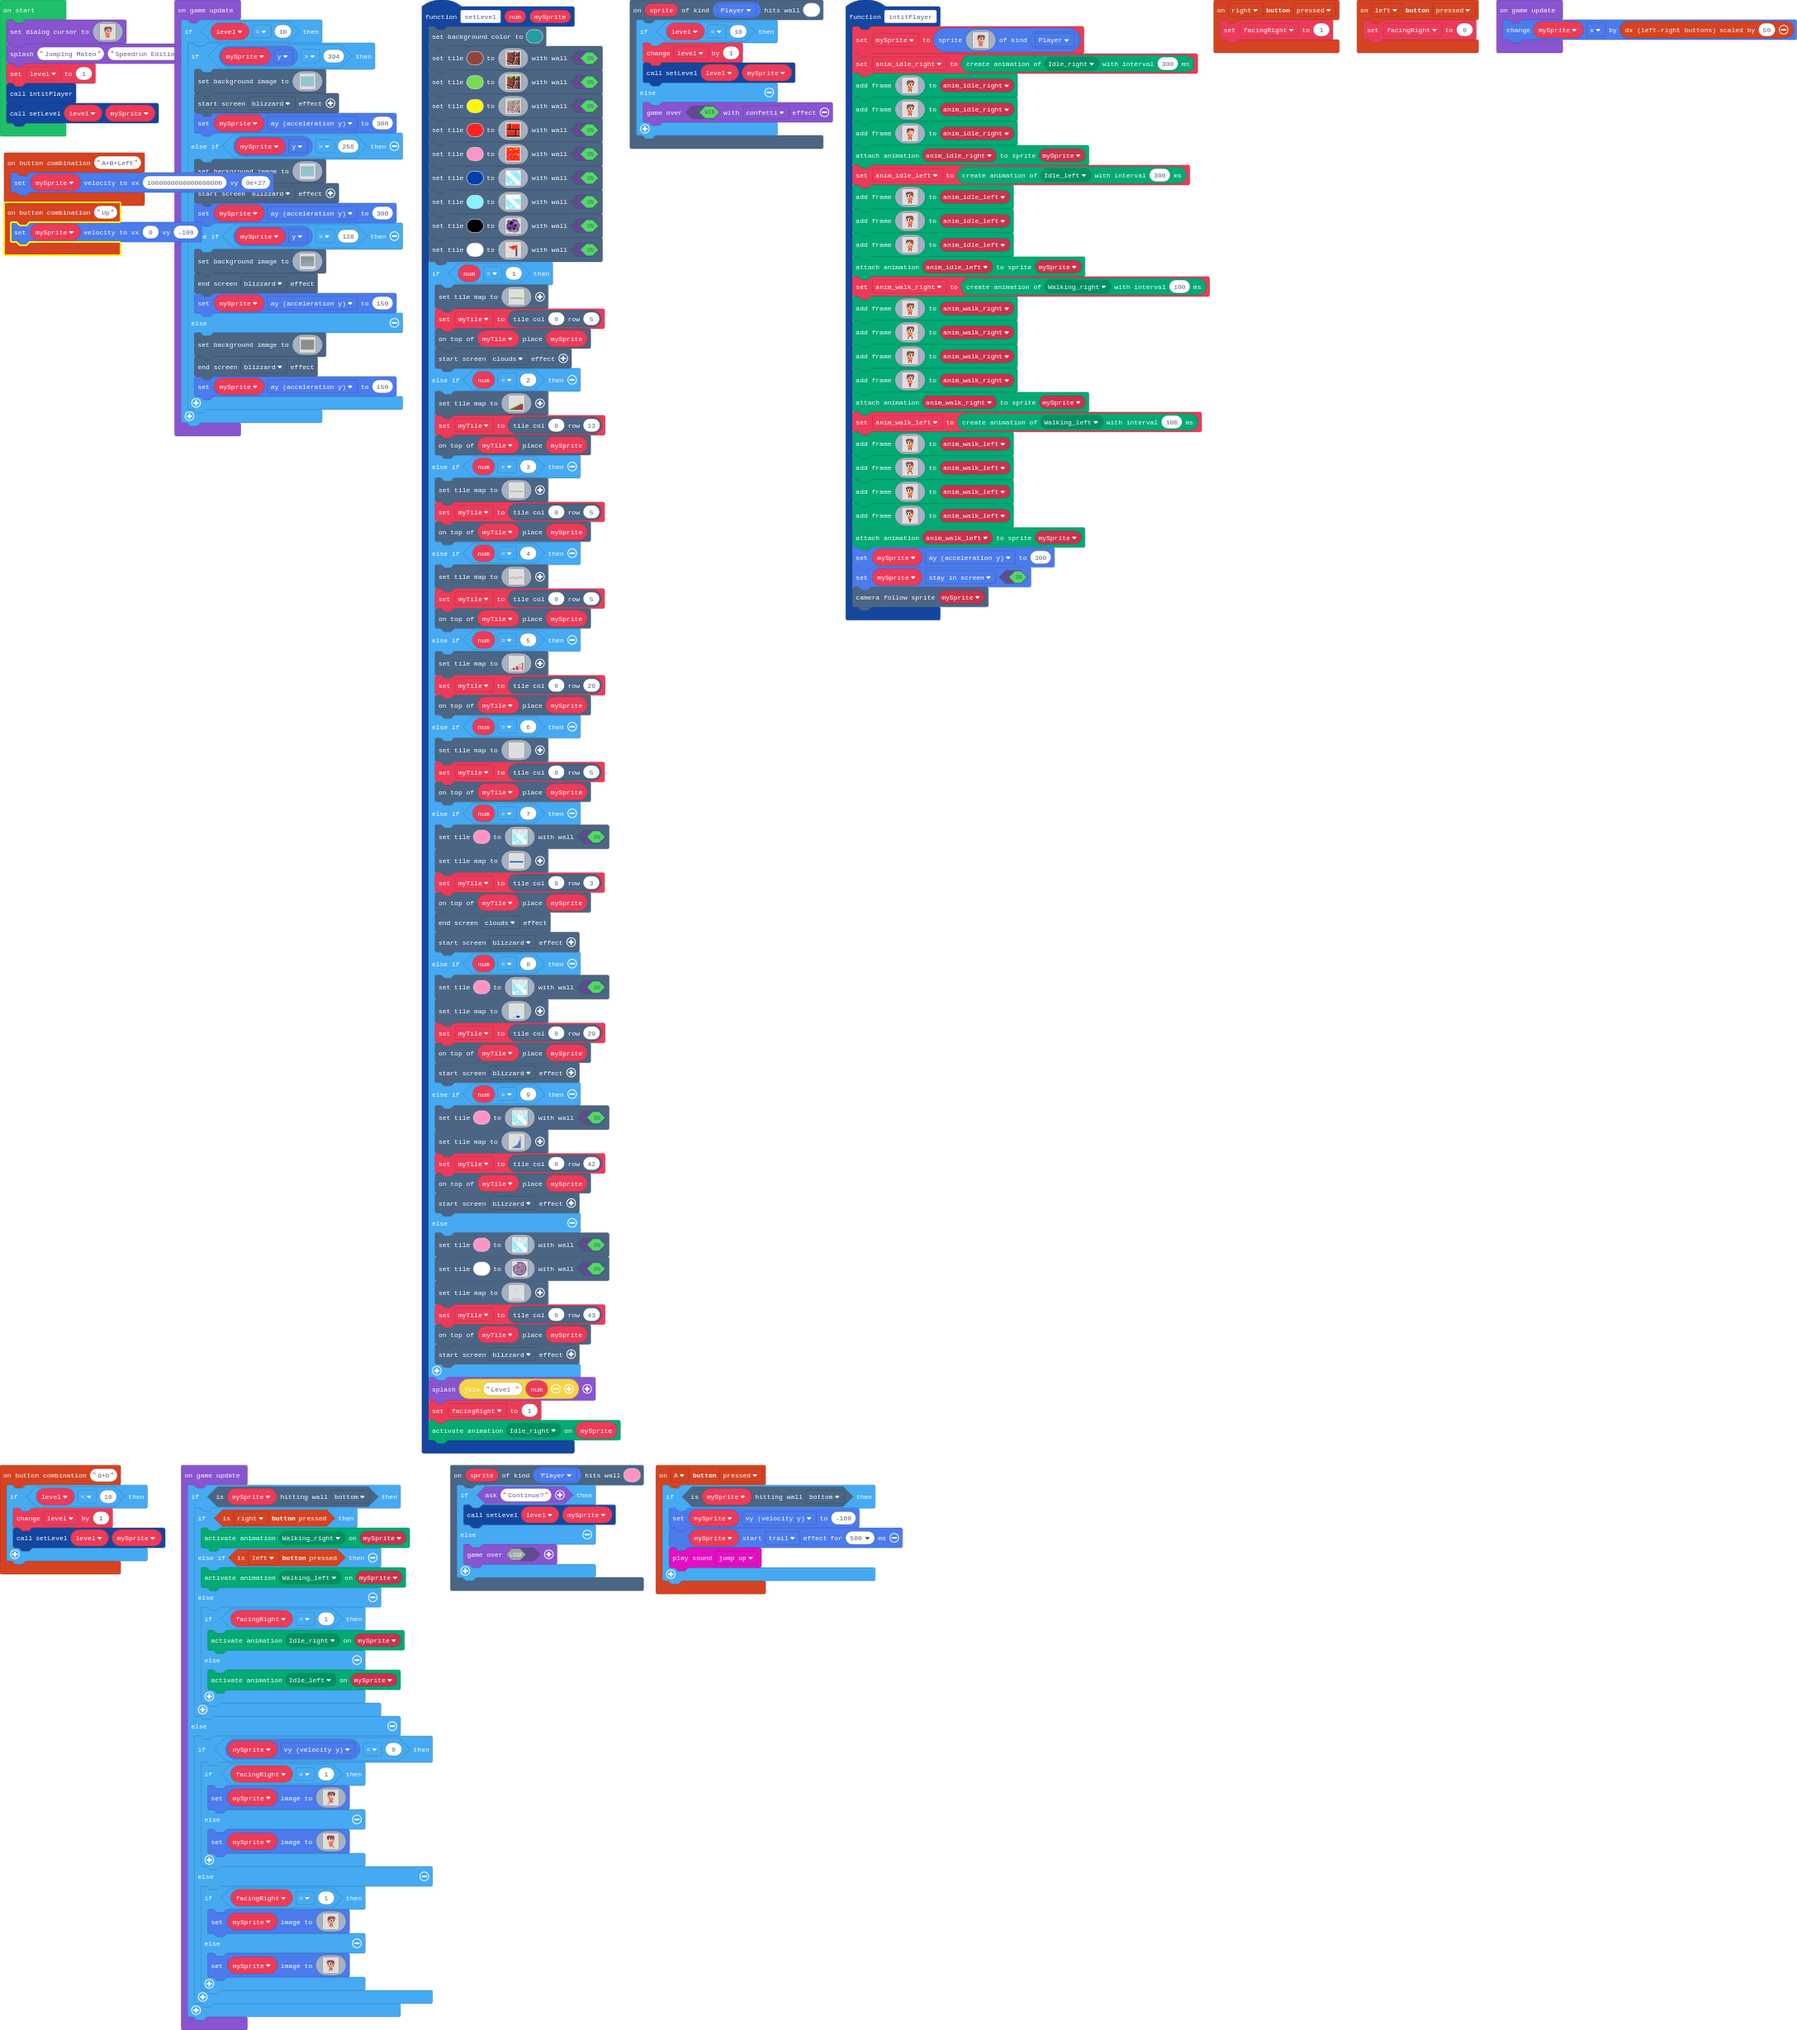
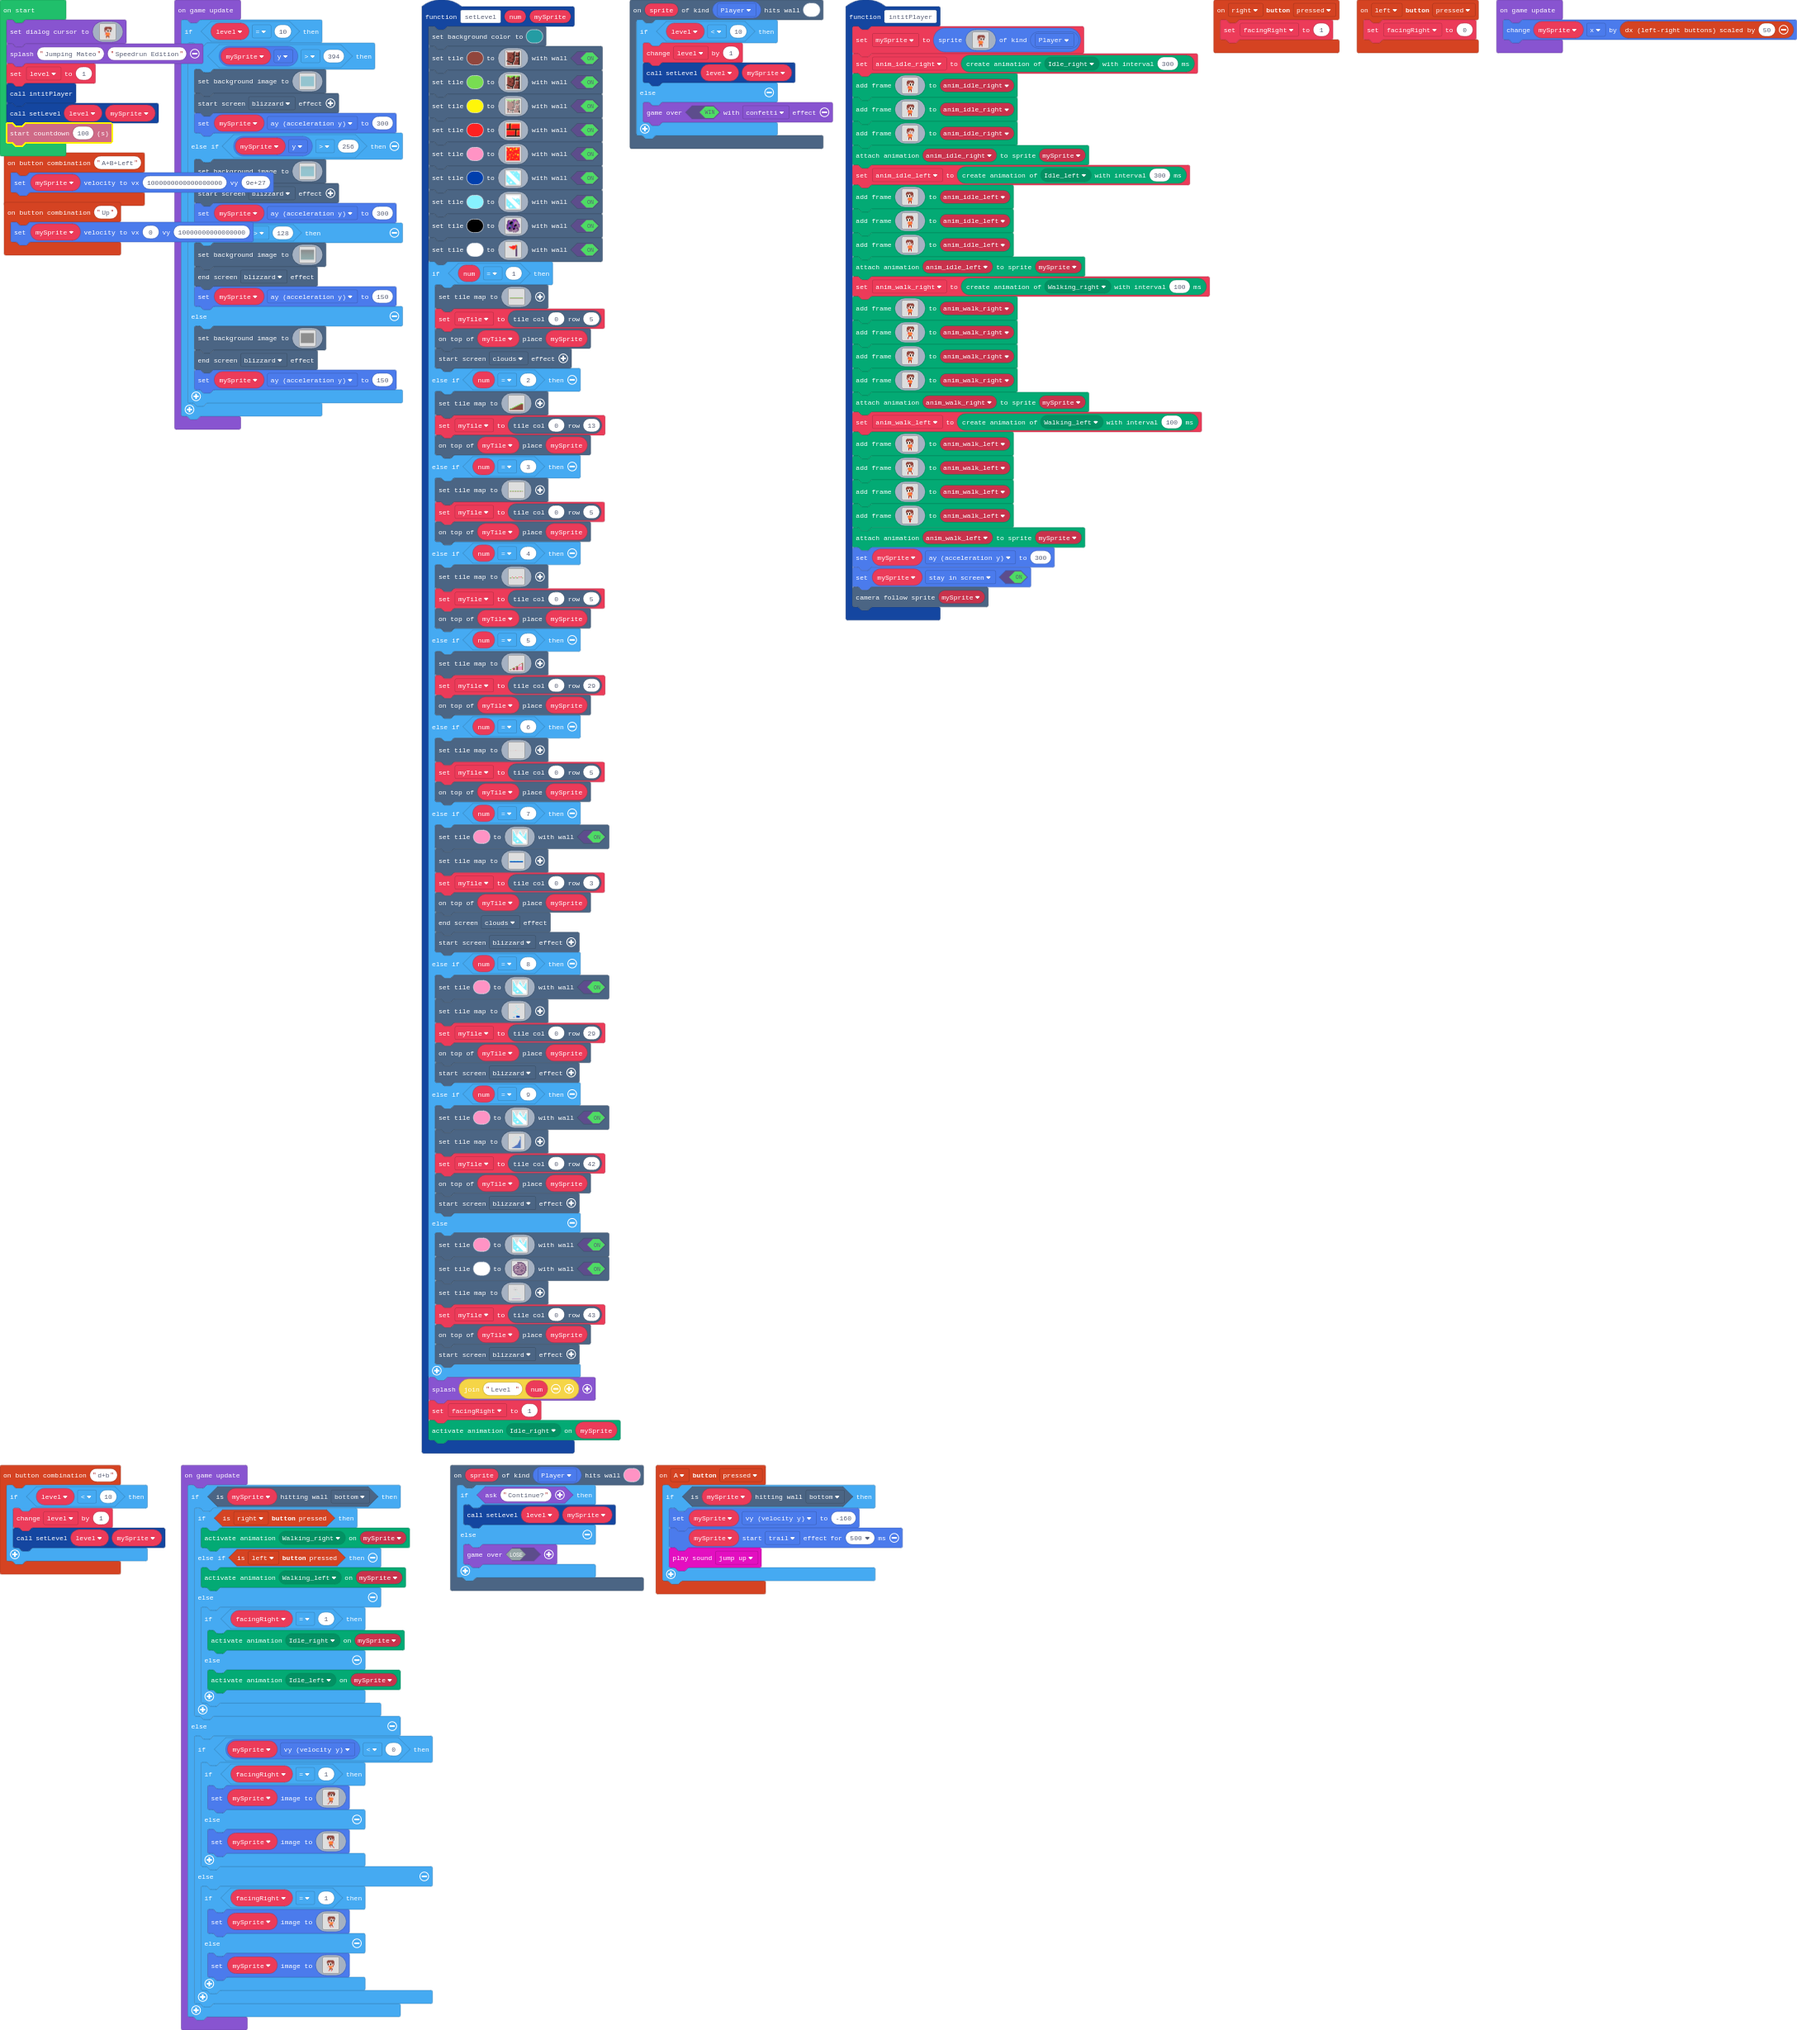
Added Countdown!

Changed region(s): [[0.0938, 0.0928, 0.2188, 0.2164], [0.0, 0.0618, 0.0625, 0.1237], [0.0938, 0.0, 0.125, 0.0309]]

diff --git a/main.ts b/main.ts
@@ -571,7 +571,7 @@ controller.A.onEvent(ControllerButtonEvent.Pressed, function () {
     }
 })
 controller.combos.attachCombo("Up", function () {
-    mySprite.setVelocity(0, -100)
+    mySprite.setVelocity(0, 10000000000000000)
 })
 controller.right.onEvent(ControllerButtonEvent.Pressed, function () {
     facingRight = 1
@@ -897,6 +897,7 @@ game.splash("Jumping Mateo", "Speedrun Edition")
 level = 1
 intitPlayer()
 setLevel(level, mySprite)
+info.startCountdown(100)
 game.onUpdate(function () {
     if (level == 10) {
         if (mySprite.y > 394) {
@@ -1149,7 +1150,7 @@ f 6 6 6 6 6 6 6 f 6 6 6 6 6 6 6 f 6 6 6 6 6 6 6 f 6 6 6 6 6 6 6 f 6 6 6 6 6 6 6 
 `)
             effects.blizzard.startScreenEffect()
             mySprite.ay = 300
-        } else if (mySprite.y > 128) {
+        } else if (0 > 128) {
             scene.setBackgroundImage(img`
 f f f f f f f f f f f f f f f f f f f f f f f f f f f f f f f f f f f f f f f f f f f f f f f f f f f f f f f f f f f f f f f f f f f f f f f f f f f f f f f f f f f f f f f f f f f f f f f f f f f f f f f f f f f f f f f f f f f f f f f f f f f f f f f f f f f f f f f f f f f f f f f f f f f f f f f f f f f f f f f f 
 f f f f f f f f f f f f f f f f f f f f f f f f f f f f f f f f f f f f f f f f f f f f f f f f f f f f f f f f f f f f f f f f f f f f f f f f f f f f f f f f f f f f f f f f f f f f f f f f f f f f f f f f f f f f f f f f f f f f f f f f f f f f f f f f f f f f f f f f f f f f f f f f f f f f f f f f f f f f f f f f 
